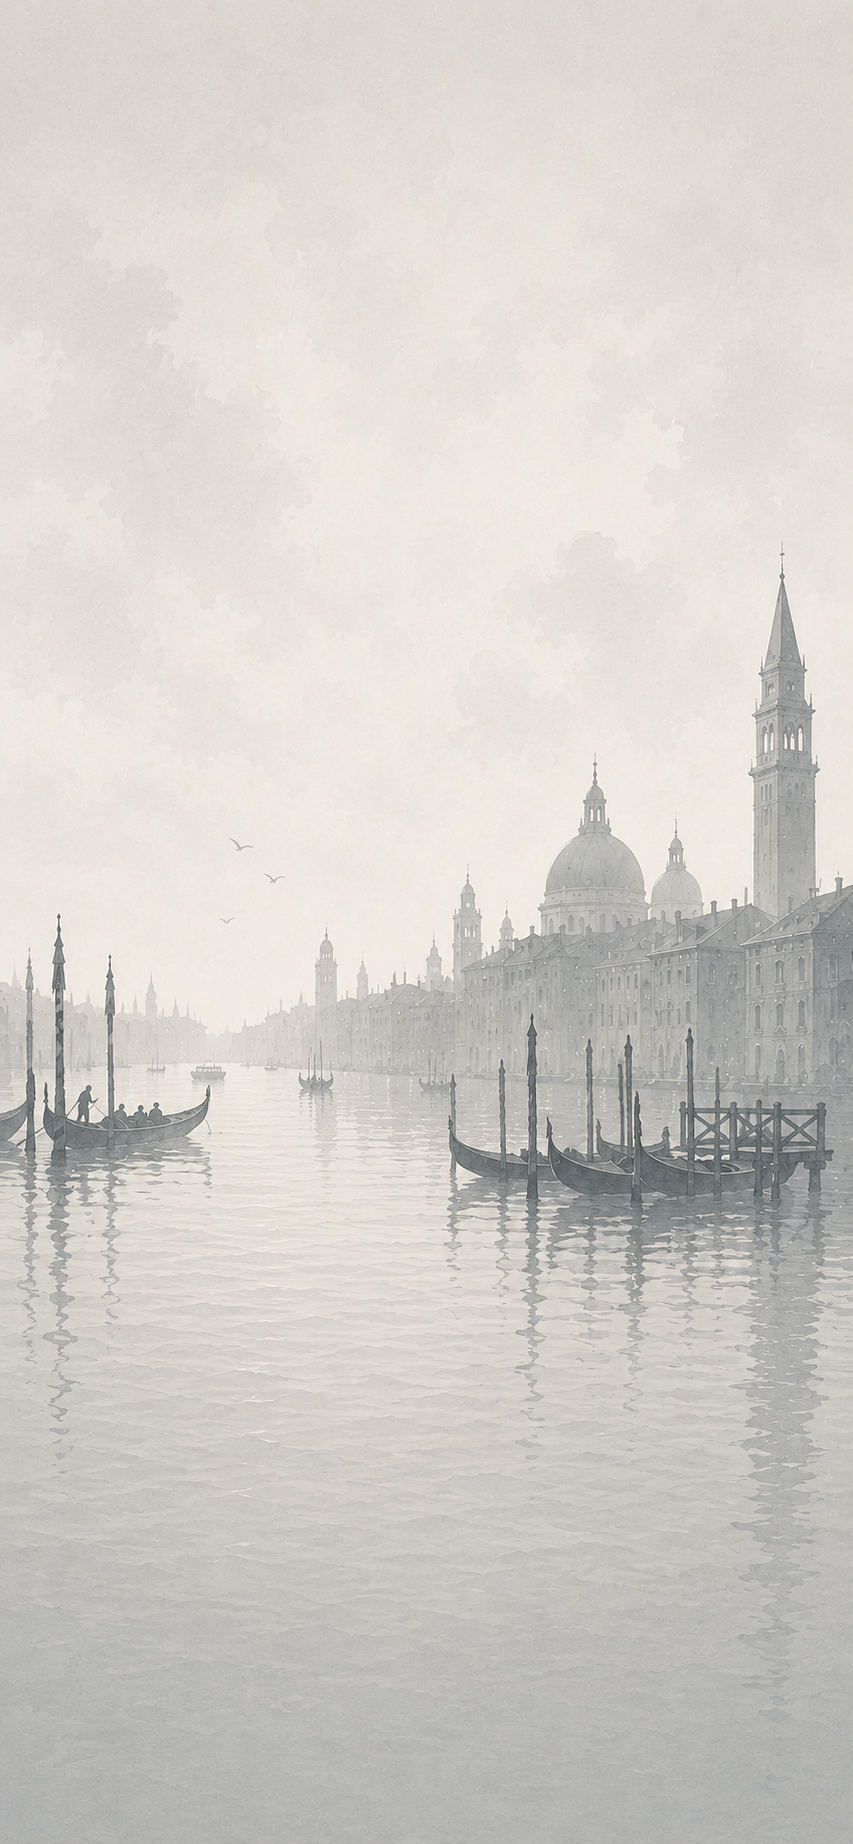
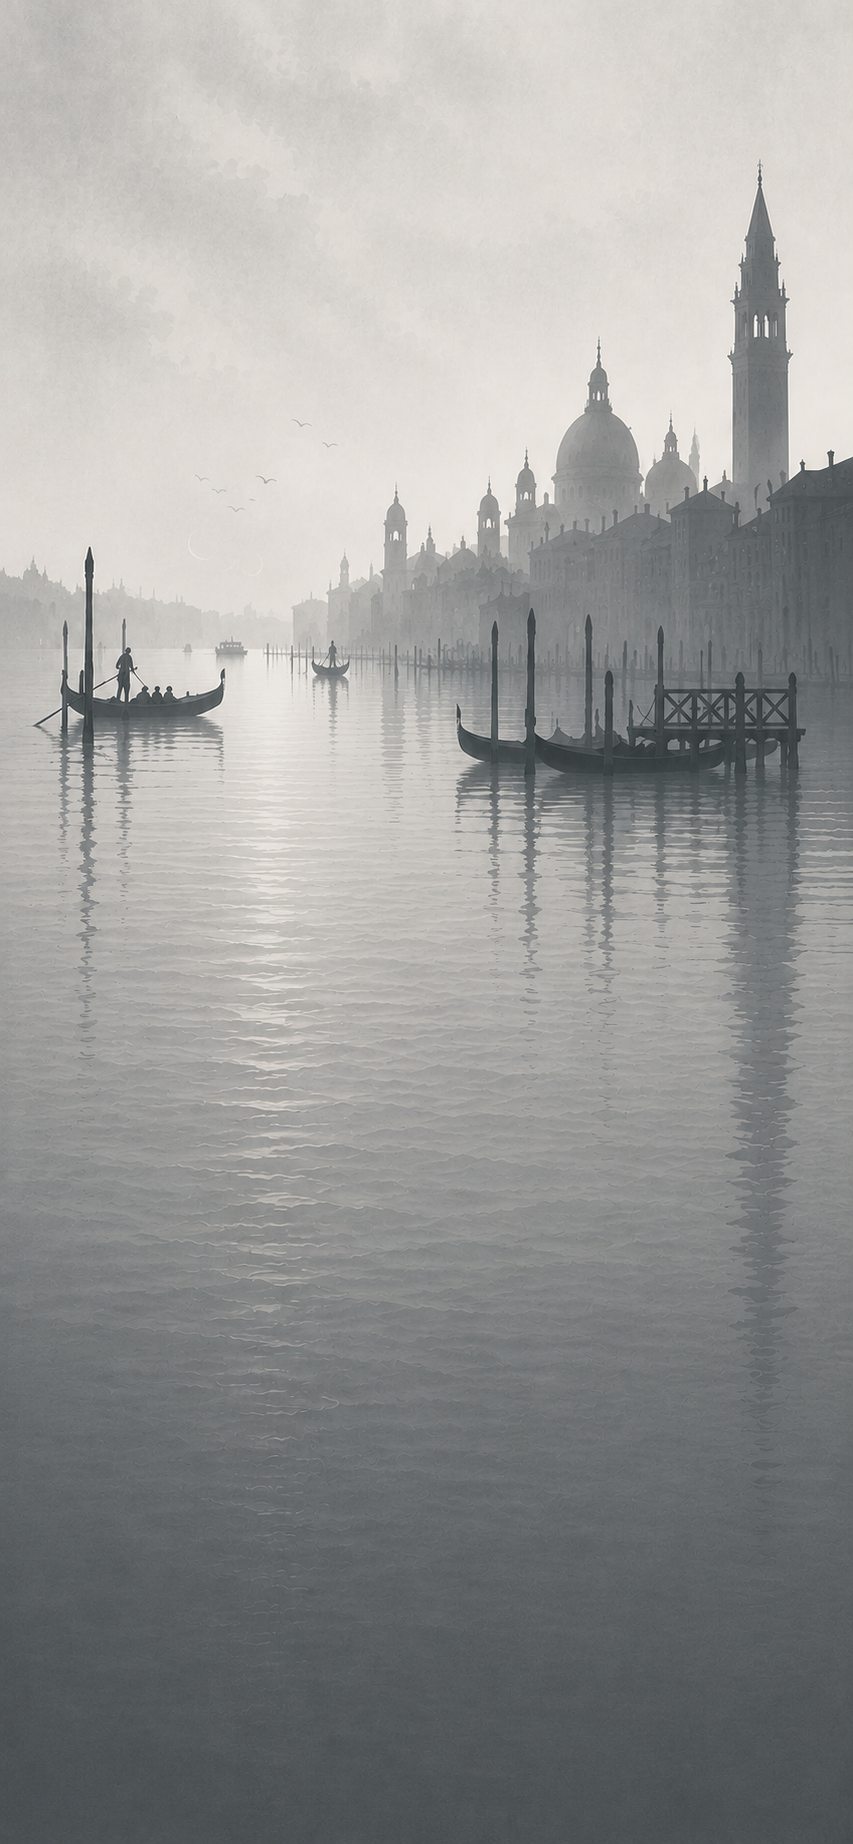
Home screen: new background, simplified buttons, burger menu, layout tweaks

diff --git a/lib/screens/home_screen.dart b/lib/screens/home_screen.dart
@@ -34,32 +34,16 @@ class HomeScreen extends StatelessWidget {
               children: [
                 _Header(),
                 Padding(
-                  padding: const EdgeInsets.fromLTRB(20, 8, 20, 32),
+                  padding: const EdgeInsets.fromLTRB(72, 80, 72, 32),
                   child: Column(
                     children: [
-                      _MenuItem(
-                        icon: Icons.style_outlined,
-                        title: 'Cards',
-                        subtitle: 'Browse all cards\nand profiles.',
-                      ),
+                      _MenuItem(icon: Icons.style_outlined, title: 'Cards'),
                       const SizedBox(height: 12),
-                      _MenuItem(
-                        icon: Icons.flag_outlined,
-                        title: 'Gangs',
-                        subtitle: 'Create, save and\nmanage your lists.',
-                      ),
+                      _MenuItem(icon: Icons.flag_outlined, title: 'Gangs'),
                       const SizedBox(height: 12),
-                      _MenuItem(
-                        icon: Icons.menu_book_outlined,
-                        title: 'Rules',
-                        subtitle: 'Learn the game\nand find answers.',
-                      ),
+                      _MenuItem(icon: Icons.menu_book_outlined, title: 'Rules'),
                       const SizedBox(height: 12),
-                      _MenuItem(
-                        icon: Icons.settings_outlined,
-                        title: 'Settings',
-                        subtitle: 'Settings, preferences\nand more.',
-                      ),
+                      _MenuItem(icon: Icons.settings_outlined, title: 'Settings'),
                     ],
                   ),
                 ),
@@ -76,28 +60,40 @@ class _Header extends StatelessWidget {
   @override
   Widget build(BuildContext context) {
     return SafeArea(
-      child: Center(
-        child: Padding(
-          padding: const EdgeInsets.symmetric(vertical: 32),
-          child: Column(
-            mainAxisSize: MainAxisSize.min,
-            children: [
-              Image.asset('assets/images/mask.png', height: 160),
-              const SizedBox(height: 10),
-              Text(
-                'CARNEVALE',
-                style: GoogleFonts.cinzel(
-                  fontSize: 40,
-                  fontWeight: FontWeight.w700,
-                  color: _kDarkText,
-                  letterSpacing: 5,
-                ),
+      child: Stack(
+        children: [
+          Center(
+            child: Padding(
+              padding: const EdgeInsets.fromLTRB(0, 16, 0, 32),
+              child: Column(
+                mainAxisSize: MainAxisSize.min,
+                children: [
+                  Image.asset('assets/images/mask.png', height: 160),
+                  const SizedBox(height: 10),
+                  Text(
+                    'CARNEVALE',
+                    style: GoogleFonts.cinzel(
+                      fontSize: 40,
+                      fontWeight: FontWeight.w700,
+                      color: _kDarkText,
+                      letterSpacing: 5,
+                    ),
+                  ),
+                  const SizedBox(height: 12),
+                  _GoldDivider(),
+                ],
               ),
-              const SizedBox(height: 12),
-              _GoldDivider(),
-            ],
+            ),
           ),
-        ),
+          Positioned(
+            top: 8,
+            left: 8,
+            child: IconButton(
+              icon: const Icon(Icons.menu, color: _kDarkText, size: 28),
+              onPressed: () {},
+            ),
+          ),
+        ],
       ),
     );
   }
@@ -127,12 +123,10 @@ class _MenuItem extends StatelessWidget {
   const _MenuItem({
     required this.icon,
     required this.title,
-    required this.subtitle,
   });
 
   final IconData icon;
   final String title;
-  final String subtitle;
 
   @override
   Widget build(BuildContext context) {
@@ -163,28 +157,13 @@ class _MenuItem extends StatelessWidget {
                 ),
                 const SizedBox(width: 16),
                 Expanded(
-                  child: Column(
-                    crossAxisAlignment: CrossAxisAlignment.start,
-                    children: [
-                      Text(
-                        title,
-                        style: GoogleFonts.cinzel(
-                          fontSize: 18,
-                          fontWeight: FontWeight.w600,
-                          color: _kDarkText,
-                        ),
-                      ),
-                      const SizedBox(height: 4),
-                      Text(
-                        subtitle,
-                        style: const TextStyle(
-                          fontFamily: 'Georgia',
-                          fontSize: 13,
-                          color: _kSubtleText,
-                          height: 1.55,
-                        ),
-                      ),
-                    ],
+                  child: Text(
+                    title,
+                    style: GoogleFonts.cinzel(
+                      fontSize: 18,
+                      fontWeight: FontWeight.w600,
+                      color: _kDarkText,
+                    ),
                   ),
                 ),
                 const Icon(Icons.chevron_right, color: _kGold, size: 22),
